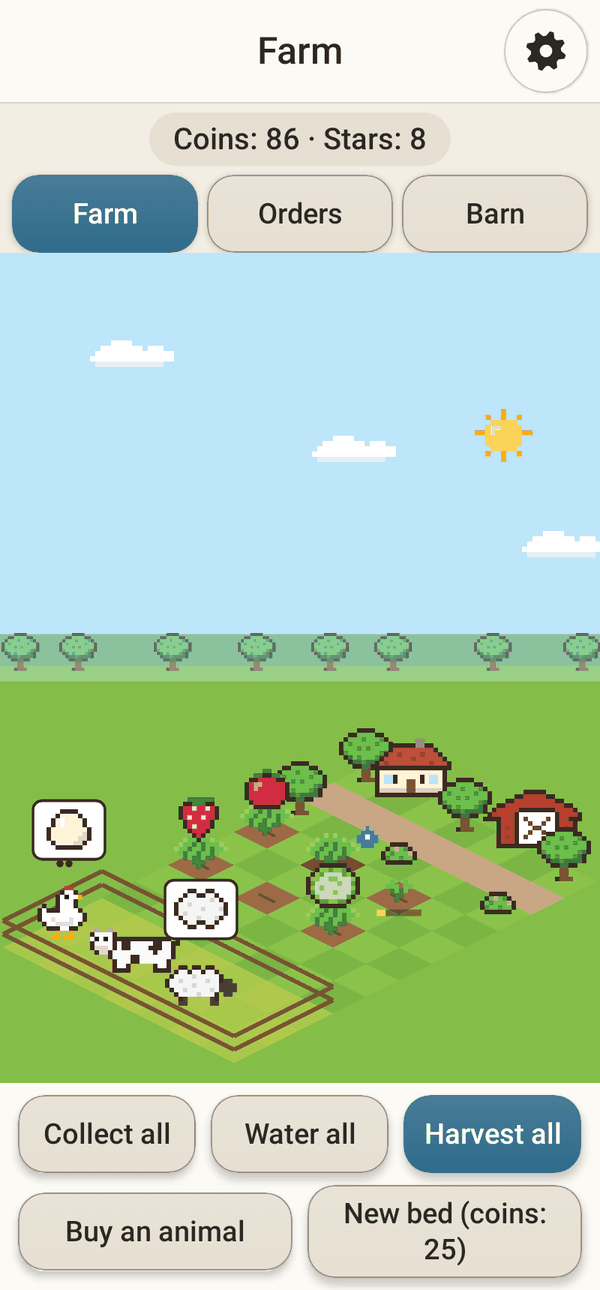
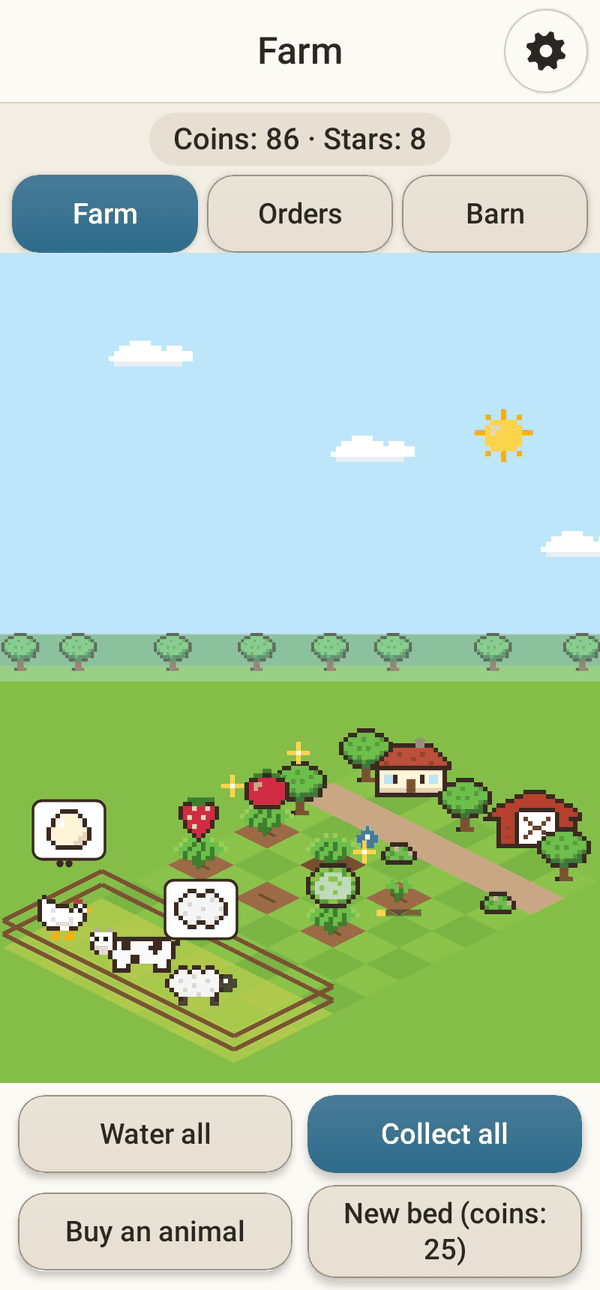
feat(farm): merge Harvest all and Collect all into one Collect all button
The button gathers every ripe bed and every animal's products at once and
says what entered the barn.

diff --git a/app/src/main/java/io/github/fershibli/megagames/games/farm/FarmGame.kt b/app/src/main/java/io/github/fershibli/megagames/games/farm/FarmGame.kt
@@ -167,6 +167,7 @@ private fun SceneTab(w: FarmWorld, now: Long, time: () -> Long, p: Palette, chan
     val sowFirst = stringResource(R.string.farm_plot_sow_first)
     val newBedHere = stringResource(R.string.farm_plot_here)
     val harvested = stringResource(R.string.farm_harvested)
+    val inBarn = stringResource(R.string.farm_in_barn)
     val itemNames = Item.entries.associateWith { stringResource(it.label) }
     val animalNames = Animal.entries.associateWith { stringResource(it.label) }
     val emptyBed = stringResource(R.string.farm_plot_empty)
@@ -219,7 +220,7 @@ private fun SceneTab(w: FarmWorld, now: Long, time: () -> Long, p: Palette, chan
         say(penText(i, time()))
     }
 
-    val ripe = FarmRules.ripeCount(w, now)
+    val gatherable = FarmRules.readyCount(w, now)
     val thirsty = w.plots.count { FarmRules.canWater(it, now) }
     // The scene's tap handler lives as long as the scene: it must always reach the latest farm.
     val onPlot by rememberUpdatedState<(Int) -> Unit> { tapPlot(it) }
@@ -284,9 +285,16 @@ private fun SceneTab(w: FarmWorld, now: Long, time: () -> Long, p: Palette, chan
         }
         Column(Modifier.fillMaxWidth().background(p.surface).padding(horizontal = 12.dp, vertical = 8.dp), verticalArrangement = Arrangement.spacedBy(8.dp)) {
             ActionBar {
-                BigButton(stringResource(R.string.farm_harvest_all), { change { FarmRules.harvestAll(it, time()) }; say(harvested) }, Modifier.testTag("farm-harvest-all"), enabled = ripe > 0, compact = true)
+                BigButton(
+                    stringResource(R.string.farm_collect_all),
+                    {
+                        val brought = FarmRules.gatherAll(w, time()).second
+                        change { FarmRules.gatherAll(it, time()).first }
+                        if (brought.isNotEmpty()) say(inBarn.format(brought.entries.joinToString(", ") { "${itemNames.getValue(it.key)} ×${it.value}" }))
+                    },
+                    Modifier.testTag("farm-collect-all"), style = if (gatherable > 0) ButtonStyle.PRIMARY else ButtonStyle.SECONDARY, enabled = gatherable > 0, compact = true,
+                )
                 BigButton(stringResource(R.string.farm_water_all), { change { FarmRules.waterAll(it, time()) } }, style = ButtonStyle.SECONDARY, enabled = thirsty > 0, compact = true)
-                BigButton(stringResource(R.string.farm_collect_all), { change { FarmRules.collectAll(it, time()) } }, Modifier.testTag("farm-collect-all"), style = ButtonStyle.SECONDARY, enabled = FarmRules.waitingCount(w, now) > 0, compact = true)
             }
             ActionBar {
                 if (w.plots.size < FarmRules.MAX_PLOTS) {

diff --git a/app/src/test/java/io/github/fershibli/megagames/games/FarmTest.kt b/app/src/test/java/io/github/fershibli/megagames/games/FarmTest.kt
@@ -8,6 +8,7 @@ import io.github.fershibli.megagames.games.farm.Pen
 import io.github.fershibli.megagames.games.farm.FarmWorld
 import io.github.fershibli.megagames.games.farm.Item
 import io.github.fershibli.megagames.games.farm.Order
+import io.github.fershibli.megagames.games.farm.Plot
 import io.github.fershibli.megagames.games.farm.Stage
 import org.junit.Assert.assertEquals
 import org.junit.Assert.assertFalse
@@ -73,6 +74,38 @@ class FarmTest {
         assertEquals(2, w.count(Item.EGG))
         // The egg in the making is half done: five more minutes give the next one.
         assertEquals(1, FarmRules.waiting(w.pens[0], t0 + 30 * min))
+    }
+
+    @Test
+    fun gatherAllTakesRipeCropsAndAnimalProductsTogether() {
+        val w = FarmWorld(
+            coins = 5,
+            plots = listOf(Plot("lettuce", t0), Plot("carrot", t0), Plot("corn", t0 + 30 * min), Plot()),
+            pens = listOf(Pen("chicken", t0), Pen("cow", t0)),
+        )
+        val now = t0 + 35 * min
+        assertEquals(2, FarmRules.ripeCount(w, now))
+        assertEquals(4, FarmRules.waitingCount(w, now))
+        assertEquals(6, FarmRules.readyCount(w, now))
+        val (after, brought) = FarmRules.gatherAll(w, now)
+        assertEquals(mapOf(Item.LETTUCE to 2, Item.CARROT to 2, Item.EGG to 3, Item.MILK to 1), brought)
+        assertEquals(2, after.count(Item.LETTUCE))
+        assertEquals(3, after.count(Item.EGG))
+        assertEquals(0, FarmRules.ripeCount(after, now))
+        assertEquals(0, FarmRules.waitingCount(after, now))
+        assertEquals(0, FarmRules.readyCount(after, now))
+        // The corn is still growing and stays in its bed.
+        assertEquals("corn", after.plots[2].crop)
+    }
+
+    @Test
+    fun gatherAllWithNothingReadyChangesNothing() {
+        val w = FarmWorld(coins = 5, plots = listOf(Plot("corn", t0), Plot()), pens = listOf(Pen("chicken", t0)))
+        val now = t0 + 2 * min
+        assertEquals(0, FarmRules.readyCount(w, now))
+        val (after, brought) = FarmRules.gatherAll(w, now)
+        assertEquals(w, after)
+        assertTrue(brought.isEmpty())
     }
 
     @Test

diff --git a/app/src/test/java/io/github/fershibli/megagames/FarmUiTest.kt b/app/src/test/java/io/github/fershibli/megagames/FarmUiTest.kt
@@ -22,6 +22,7 @@ import io.github.fershibli.megagames.games.farm.Item
 import io.github.fershibli.megagames.games.farm.LocalFarmClock
 import io.github.fershibli.megagames.games.farm.Order
 import io.github.fershibli.megagames.games.farm.Pen
+import io.github.fershibli.megagames.games.farm.Plot
 import io.github.fershibli.megagames.ui.theme.MegaGamesTheme
 import org.junit.Assert.assertEquals
 import org.junit.Rule
@@ -114,6 +115,27 @@ class FarmUiTest {
         assertEquals(FarmRules.START_COINS - 2 - 25, stored().coins)
         rule.onNodeWithText("the one blinking", substring = true).assertExists()
         rule.onNodeWithTag("farm-plot-${FarmRules.START_PLOTS}").assertExists()
+    }
+
+    @Test
+    fun oneCollectAllButtonGathersCropsAndAnimalProductsAndSaysWhat() {
+        val t = clock.time
+        seed(FarmWorld(coins = 0, plots = listOf(Plot("lettuce", t - 10 * minute), Plot()), pens = listOf(Pen("chicken", t - 25 * minute))))
+        show()
+        rule.onNodeWithTag("farm-harvest-all").assertDoesNotExist()
+        rule.onNodeWithTag("farm-collect-all").assertIsEnabled().performClick()
+        rule.waitForIdle()
+        assertEquals(2, stored().count(Item.LETTUCE))
+        assertEquals(2, stored().count(Item.EGG))
+        rule.onNodeWithText("In the barn: Lettuce ×2, Egg ×2", substring = true).assertExists()
+        // Nothing is ready any more, so the button rests.
+        rule.onNodeWithTag("farm-collect-all").assertIsNotEnabled()
+    }
+
+    @Test
+    fun collectAllIsDisabledWithNothingReady() {
+        show()
+        rule.onNodeWithTag("farm-collect-all").assertIsNotEnabled()
     }
 
     @Test

diff --git a/app/src/main/java/io/github/fershibli/megagames/games/farm/FarmEngine.kt b/app/src/main/java/io/github/fershibli/megagames/games/farm/FarmEngine.kt
@@ -236,6 +236,25 @@ object FarmRules {
 
     fun waitingCount(world: FarmWorld, now: Long): Int = world.pens.sumOf { waiting(it, now) }
 
+    // Gathering everything at once.
+
+    /**
+     * Brings into the barn everything that is ready: every ripe bed and every animal's products.
+     * Returns the new farm and what entered the barn, by item. Later sources (the mill, the lake)
+     * join here, so the one button keeps gathering everything.
+     */
+    fun gatherAll(world: FarmWorld, now: Long): Pair<FarmWorld, Map<Item, Int>> {
+        val gathered = collectAll(harvestAll(world, now), now)
+        val brought = Item.entries.mapNotNull { item ->
+            val n = gathered.count(item) - world.count(item)
+            if (n > 0) item to n else null
+        }.toMap()
+        return gathered to brought
+    }
+
+    /** How many things are ready to gather: ripe beds plus products waiting. */
+    fun readyCount(world: FarmWorld, now: Long): Int = ripeCount(world, now) + waitingCount(world, now)
+
     // The market.
 
     fun sell(world: FarmWorld, item: Item, count: Int): FarmWorld {

diff --git a/docs/ru/games/farm.md b/docs/ru/games/farm.md
@@ -10,7 +10,7 @@
 - Коснитесь **пустой грядки** (просто коричневая земля) и выберите, что посадить. Каждое семя стоит несколько монет.
 - Растение растёт само, в реальном времени: сначала росток, потом молодое растение с полоской, которая заполняется, потом спелый урожай, который блестит. Коснитесь растущей грядки, чтобы узнать, что на ней и сколько осталось ждать.
 - **Полив** (коснитесь грядки с синей каплей или кнопки **Полить всё**) ускоряет оставшийся рост вдвое. Достаточно одного раза.
-- Коснитесь спелой грядки (или **Собрать всё**): каждая грядка даёт **две** штуки урожая, и они сразу попадают в амбар.
+- Коснитесь спелой грядки: она даёт **две** штуки урожая, и они сразу попадают в амбар. Кнопка **Забрать всё** делает это со всеми спелыми грядками сразу и заодно забирает то, что дали животные. Она загорается, когда что-то готово, и говорит, что попало в амбар, например «В амбаре: Салат ×4, Яйцо ×2».
 - **Новая грядка** расширяет огород, до двенадцати грядок. Сначала игра спросит и покажет, как растёт грядка; купить можно, только если что-то уже посажено, — так всегда будет урожай на продажу. Новая грядка немного помигает, чтобы было видно, где она.
 
 | Растение | Время | Семена | Цена продажи (за шт.) | Звёзды |
@@ -23,7 +23,7 @@
 | Тыква | 90 мин | 20 | 28 | 8 |
 
 ## Животные
-Покупайте животных кнопкой **Купить животное**. Каждое само даёт свой продукт и копит до **трёх** штук — они видны в облачке над ним; коснитесь животного (или **Забрать всё**), чтобы отнести их в амбар.
+Покупайте животных кнопкой **Купить животное**. Каждое само даёт свой продукт и копит до **трёх** штук — они видны в облачке над ним; коснитесь животного (или **Забрать всё**, которая заодно собирает спелые грядки), чтобы отнести их в амбар.
 
 | Животное | Даёт | Каждые | Стоит | Цена продажи | Звёзды |
 |---|---|---|---|---|---|

diff --git a/docs/ar/games/farm.md b/docs/ar/games/farm.md
@@ -12,7 +12,7 @@
 - اضغط على **حوض فارغ** (تراب بنّي فقط) واختر ما تزرعه. كل بذرة تكلّف بضع عملات.
 - ينمو المزروع وحده في الوقت الحقيقي: برعم أولًا، ثم نبتة صغيرة تحتها شريط صغير يمتلئ، ثم المحصول الناضج الذي يلمع. اضغط على حوض ينمو لترى اسمه والوقت الباقي.
 - **السقي** (اضغط على حوض فيه قطرة زرقاء، أو على **اسقِ الكل**) يجعل باقي النمو أسرع مرتين. مرة واحدة لكل زرعة تكفي.
-- اضغط على حوض ناضج (أو على **احصد الكل**): يعطي كل حوض **اثنين** من محصوله، يذهبان مباشرة إلى الحظيرة.
+- اضغط على حوض ناضج: يعطي **اثنين** من محصوله، يذهبان مباشرة إلى الحظيرة. زر **اجمع الكل** يفعل ذلك مع كل الأحواض الناضجة دفعة واحدة، ويأخذ أيضًا ما أنتجته الحيوانات. يضيء الزر حين يكون شيء جاهزًا، ويقول ما دخل الحظيرة، مثل «في الحظيرة: خس ×4، بيض ×2».
 - **حوض جديد** يوسّع الحقل حتى اثني عشر حوضًا. يسألك أولًا مع رسم لحوض ينمو، ولا يمكن شراؤه إلا إذا كان هناك شيء مزروع: هكذا يبقى هناك دائمًا حصاد للبيع. يومض الحوض الجديد لحظة لترى مكانه.
 
 | المزروع | الوقت | البذور | سعر البيع (للواحد) | النجوم المطلوبة |
@@ -25,7 +25,7 @@
 | يقطين | 90 دقيقة | 20 | 28 | 8 |
 
 ## الحيوانات
-اشترِ الحيوانات من **اشترِ حيوانًا**. كل حيوان يُنتج وحده ويحتفظ بما يصل إلى **ثلاثة** منتجات تظهر في فقاعة صغيرة فوقه؛ اضغط على الحيوان (أو على **اجمع الكل**) لتنقلها إلى الحظيرة.
+اشترِ الحيوانات من **اشترِ حيوانًا**. كل حيوان يُنتج وحده ويحتفظ بما يصل إلى **ثلاثة** منتجات تظهر في فقاعة صغيرة فوقه؛ اضغط على الحيوان (أو على **اجمع الكل**، الذي يحصد الأحواض الناضجة أيضًا) لتنقلها إلى الحظيرة.
 
 | الحيوان | يعطي | كل | السعر | سعر البيع | النجوم المطلوبة |
 |---|---|---|---|---|---|

diff --git a/docs/ja/games/farm.md b/docs/ja/games/farm.md
@@ -10,7 +10,7 @@
 - **空いている畝**（茶色い土だけの所）をタップして、まく種を選びます。種は数コインです。
 - 作物は本当の時間でひとりでに育ちます。芽が出て、小さな棒グラフがたまっていく苗になり、実るとキラキラ光ります。育っている畝をタップすると、作物の名前と残り時間がわかります。
 - **水やり**（青いしずくのある畝をタップ、または **全部に水やり**）をすると、残りが2倍の速さで育ちます。1回で十分です。
-- 実った畝（または **全部収穫**）をタップすると、1つの畝から **2つ** とれて、そのまま納屋に入ります。
+- 実った畝をタップすると、**2つ** とれて、そのまま納屋に入ります。**全部集める** を押すと、実った畝すべてをまとめて収穫し、動物たちの産物もいっしょに運びます。何か用意ができているとボタンが光り、「納屋に入りました：レタス ×4、たまご ×2」のように何が入ったかを知らせます。
 - **畝を増やす** で畑が広がります（12まで）。 買う前に畝が育つ絵で確かめます。何か植えてあるときだけ買えるので、いつでも売れる収穫があります。新しい畝はしばらく点滅して、場所がわかります。
 
 | 作物 | 時間 | 種 | 売値（1つ） | 必要な星 |
@@ -23,7 +23,7 @@
 | かぼちゃ | 90分 | 20 | 28 | 8 |
 
 ## 動物
-**動物を買う** で動物を買います。どの動物もひとりでに産物を作り、**3つ** までためておきます（上の吹き出しに見えます）。動物（または **全部集める**）をタップすると納屋に運びます。
+**動物を買う** で動物を買います。どの動物もひとりでに産物を作り、**3つ** までためておきます（上の吹き出しに見えます）。動物（または **全部集める**。実った畝の収穫もいっしょにします）をタップすると納屋に運びます。
 
 | 動物 | とれるもの | 間隔 | 値段 | 売値 | 必要な星 |
 |---|---|---|---|---|---|

diff --git a/docs/fr/games/farm.md b/docs/fr/games/farm.md
@@ -10,7 +10,7 @@ Trois boutons en haut ouvrent la **Ferme**, les **Commandes** et la **Grange**. 
 - Touchez un **carré vide** (la terre brune nue) et choisissez quoi semer. Chaque graine coûte quelques pièces.
 - La culture pousse toute seule, en temps réel : d’abord une pousse, puis une jeune plante avec une petite barre qui se remplit, puis la récolte mûre, qui scintille. Touchez un carré qui pousse pour lire son nom et le temps restant.
 - **Arroser** (touchez un carré avec une goutte bleue, ou **Tout arroser**) fait pousser le reste deux fois plus vite. Une fois par culture suffit.
-- Touchez un carré mûr (ou **Tout récolter**) : chaque carré donne **deux** de sa culture, qui vont directement à la grange.
+- Touchez un carré mûr : il donne **deux** de sa culture, qui vont directement à la grange. **Tout ramasser** le fait pour tous les carrés mûrs à la fois et prend aussi ce que les animaux ont produit. Le bouton s’allume quand quelque chose est prêt et dit ce qui est allé à la grange, par exemple « Dans la grange : Salade ×4, Œuf ×2 ».
 - **Nouveau carré** agrandit le potager, jusqu’à douze carrés. Il demande d’abord, avec le dessin d’un carré qui pousse, et il faut déjà avoir semé quelque chose : ainsi il y a toujours une récolte à vendre. Le nouveau carré clignote un moment pour que vous voyiez où il est.
 
 | Culture | Temps | Graines | Vendu (l’unité) | Étoiles |
@@ -23,7 +23,7 @@ Trois boutons en haut ouvrent la **Ferme**, les **Commandes** et la **Grange**. 
 | Citrouille | 90 min | 20 | 28 | 8 |
 
 ## Les animaux
-Achetez des animaux avec **Acheter un animal**. Chacun produit tout seul et garde jusqu’à **trois** produits en attente, montrés dans une petite bulle au-dessus ; touchez l’animal (ou **Tout ramasser**) pour les mettre dans la grange.
+Achetez des animaux avec **Acheter un animal**. Chacun produit tout seul et garde jusqu’à **trois** produits en attente, montrés dans une petite bulle au-dessus ; touchez l’animal (ou **Tout ramasser**, qui récolte aussi les carrés mûrs) pour les mettre dans la grange.
 
 | Animal | Donne | Toutes les | Coûte | Vendu | Étoiles |
 |---|---|---|---|---|---|

diff --git a/docs/de/games/farm.md b/docs/de/games/farm.md
@@ -10,7 +10,7 @@ Drei Knöpfe oben öffnen den **Bauernhof**, die **Bestellungen** und die **Sche
 - Tippe auf ein **leeres Beet** (nur braune Erde) und wähle, was du säen willst. Jeder Samen kostet ein paar Münzen.
 - Die Pflanze wächst von selbst in echter Zeit: erst ein Keimling, dann eine junge Pflanze mit einem kleinen Balken, der sich füllt, dann die reife Ernte, die funkelt. Tippe auf ein wachsendes Beet, um den Namen und die restliche Zeit zu sehen.
 - **Gießen** (tippe auf ein Beet mit einem blauen Tropfen oder auf **Alles gießen**) lässt den Rest doppelt so schnell wachsen. Einmal pro Pflanze genügt.
-- Tippe auf ein reifes Beet (oder **Alles ernten**): Jedes Beet gibt **zwei** seiner Ernte, die direkt in die Scheune kommen.
+- Tippe auf ein reifes Beet: Es gibt **zwei** seiner Ernte, die direkt in die Scheune kommen. **Alles einsammeln** macht das mit allen reifen Beeten auf einmal und nimmt auch mit, was die Tiere erzeugt haben. Die Taste leuchtet, wenn etwas bereit ist, und sagt, was in die Scheune kam, zum Beispiel „In der Scheune: Salat ×4, Ei ×2“.
 - **Neues Beet** vergrößert das Feld, bis zu zwölf Beete. Vorher fragt es nach, mit einem Bild eines wachsenden Beets, und es geht nur, wenn schon etwas gesät ist: So gibt es immer eine Ernte zum Verkaufen. Das neue Beet blinkt eine Weile, damit du siehst, wo es ist.
 
 | Pflanze | Zeit | Samen | Verkauf (je) | Sterne |
@@ -23,7 +23,7 @@ Drei Knöpfe oben öffnen den **Bauernhof**, die **Bestellungen** und die **Sche
 | Kürbis | 90 Min. | 20 | 28 | 8 |
 
 ## Die Tiere
-Kaufe Tiere mit **Tier kaufen**. Jedes erzeugt von selbst sein Produkt und hält bis zu **drei** bereit, in einer kleinen Sprechblase darüber; tippe auf das Tier (oder **Alles einsammeln**), um sie in die Scheune zu bringen.
+Kaufe Tiere mit **Tier kaufen**. Jedes erzeugt von selbst sein Produkt und hält bis zu **drei** bereit, in einer kleinen Sprechblase darüber; tippe auf das Tier (oder **Alles einsammeln**, das auch die reifen Beete erntet), um sie in die Scheune zu bringen.
 
 | Tier | Gibt | Alle | Kostet | Verkauf | Sterne |
 |---|---|---|---|---|---|

diff --git a/docs/pt-BR/games/farm.md b/docs/pt-BR/games/farm.md
@@ -10,7 +10,7 @@ Três botões em cima abrem a **Fazenda**, os **Pedidos** e o **Celeiro**. Suas 
 - Toque num **canteiro vazio** (só a terra marrom) e escolha o que plantar. Cada semente custa algumas moedas.
 - A planta cresce sozinha, no tempo de verdade: primeiro um brotinho, depois uma planta nova com uma barrinha que vai enchendo, depois a colheita madura, que brilha. Toque num canteiro que está crescendo para ver o nome e o tempo que falta.
 - **Regar** (toque num canteiro com uma gota azul, ou em **Regar tudo**) faz o resto do crescimento andar duas vezes mais rápido. Uma vez por plantação basta.
-- Toque num canteiro maduro (ou em **Colher tudo**): cada canteiro dá **dois** do que foi plantado, que vão direto para o celeiro.
+- Toque num canteiro maduro: ele dá **dois** do que foi plantado, que vão direto para o celeiro. **Recolher tudo** faz isso com todos os canteiros maduros de uma vez e também leva o que os animais produziram. O botão acende quando há algo pronto e diz o que foi para o celeiro, como "No celeiro: Alface ×4, Ovo ×2".
 - **Novo canteiro** aumenta a horta, até doze canteiros. Antes ele pergunta, com o desenho de um canteiro crescendo, e só aparece se já houver algo plantado: assim sempre tem uma colheita para vender. O canteiro novo pisca por um momento, para você ver onde ele ficou.
 
 | Planta | Tempo | Semente | Vende por (cada) | Estrelas |
@@ -23,7 +23,7 @@ Três botões em cima abrem a **Fazenda**, os **Pedidos** e o **Celeiro**. Suas 
 | Abóbora | 90 min | 20 | 28 | 8 |
 
 ## Os animais
-Compre animais em **Comprar animal**. Cada um produz sozinho e guarda até **três** produtos esperando, mostrados num balãozinho acima dele; toque no animal (ou em **Recolher tudo**) para levá-los ao celeiro.
+Compre animais em **Comprar animal**. Cada um produz sozinho e guarda até **três** produtos esperando, mostrados num balãozinho acima dele; toque no animal (ou em **Recolher tudo**, que também colhe os canteiros maduros) para levá-los ao celeiro.
 
 | Animal | Dá | A cada | Custa | Vende por | Estrelas |
 |---|---|---|---|---|---|

diff --git a/docs/it/games/farm.md b/docs/it/games/farm.md
@@ -10,7 +10,7 @@ Tre pulsanti in alto aprono la **Fattoria**, gli **Ordini** e il **Fienile**. Le
 - Tocca un’**aiuola vuota** (solo terra marrone) e scegli cosa seminare. Ogni seme costa qualche moneta.
 - La pianta cresce da sola, in tempo reale: prima un germoglio, poi una piantina con una barretta che si riempie, poi il raccolto maturo, che luccica. Tocca un’aiuola che sta crescendo per leggerne il nome e il tempo che manca.
 - **Annaffiare** (tocca un’aiuola con una goccia blu, o **Annaffia tutto**) fa crescere il resto due volte più in fretta. Basta una volta per pianta.
-- Tocca un’aiuola matura (o **Raccogli tutto**): ogni aiuola dà **due** del suo raccolto, che vanno subito nel fienile.
+- Tocca un’aiuola matura: dà **due** del suo raccolto, che vanno subito nel fienile. **Prendi tutto** lo fa con tutte le aiuole mature insieme e porta anche ciò che hanno prodotto gli animali. Il pulsante si accende quando c’è qualcosa di pronto e dice cosa è andato nel fienile, per esempio «Nel fienile: Lattuga ×4, Uovo ×2».
 - **Nuova aiuola** allarga l’orto, fino a dodici aiuole. Prima chiede, con il disegno di un’aiuola che cresce, e serve aver già seminato qualcosa: così c’è sempre un raccolto da vendere. L’aiuola nuova lampeggia per un momento, per vedere dove si trova.
 
 | Pianta | Tempo | Semi | Si vende a (l’uno) | Stelle |
@@ -23,7 +23,7 @@ Tre pulsanti in alto aprono la **Fattoria**, gli **Ordini** e il **Fienile**. Le
 | Zucca | 90 min | 20 | 28 | 8 |
 
 ## Gli animali
-Compra gli animali con **Compra un animale**. Ognuno produce da solo e tiene fino a **tre** prodotti in attesa, mostrati in un fumetto sopra di lui; tocca l’animale (o **Prendi tutto**) per portarli nel fienile.
+Compra gli animali con **Compra un animale**. Ognuno produce da solo e tiene fino a **tre** prodotti in attesa, mostrati in un fumetto sopra di lui; tocca l’animale (o **Prendi tutto**, che raccoglie anche le aiuole mature) per portarli nel fienile.
 
 | Animale | Dà | Ogni | Costa | Si vende a | Stelle |
 |---|---|---|---|---|---|

diff --git a/docs/es/games/farm.md b/docs/es/games/farm.md
@@ -10,7 +10,7 @@ Tres botones arriba abren la **Granja**, los **Pedidos** y el **Granero**. Tus *
 - Toca un **bancal vacío** (solo la tierra marrón) y elige qué sembrar. Cada semilla cuesta unas monedas.
 - La planta crece sola, en tiempo real: primero un brote, luego una planta joven con una barrita que se va llenando, luego la cosecha madura, que brilla. Toca un bancal que está creciendo para ver su nombre y el tiempo que falta.
 - **Regar** (toca un bancal con una gota azul, o **Regar todo**) hace que el resto del crecimiento vaya el doble de rápido. Basta una vez por cultivo.
-- Toca un bancal maduro (o **Cosechar todo**): cada bancal da **dos** de su cultivo, que van directos al granero.
+- Toca un bancal maduro: da **dos** de su cultivo, que van directos al granero. **Recoger todo** lo hace con todos los bancales maduros a la vez y además lleva lo que han producido los animales. El botón se ilumina cuando hay algo listo y dice qué fue al granero, por ejemplo "En el granero: Lechuga ×4, Huevo ×2".
 - **Nuevo bancal** añade un bancal, hasta doce. Antes pregunta, con el dibujo de un bancal creciendo, y solo se puede si ya hay algo sembrado: así siempre hay una cosecha para vender. El bancal nuevo parpadea un momento para que veas dónde quedó.
 
 | Cultivo | Tiempo | Semillas | Se vende a (cada) | Estrellas |
@@ -23,7 +23,7 @@ Tres botones arriba abren la **Granja**, los **Pedidos** y el **Granero**. Tus *
 | Calabaza | 90 min | 20 | 28 | 8 |
 
 ## Los animales
-Compra animales con **Comprar un animal**. Cada uno produce solo y guarda hasta **tres** productos esperando, que se ven en un globito encima; toca el animal (o **Recoger todo**) para llevarlos al granero.
+Compra animales con **Comprar un animal**. Cada uno produce solo y guarda hasta **tres** productos esperando, que se ven en un globito encima; toca el animal (o **Recoger todo**, que también cosecha los bancales maduros) para llevarlos al granero.
 
 | Animal | Da | Cada | Cuesta | Se vende a | Estrellas |
 |---|---|---|---|---|---|
